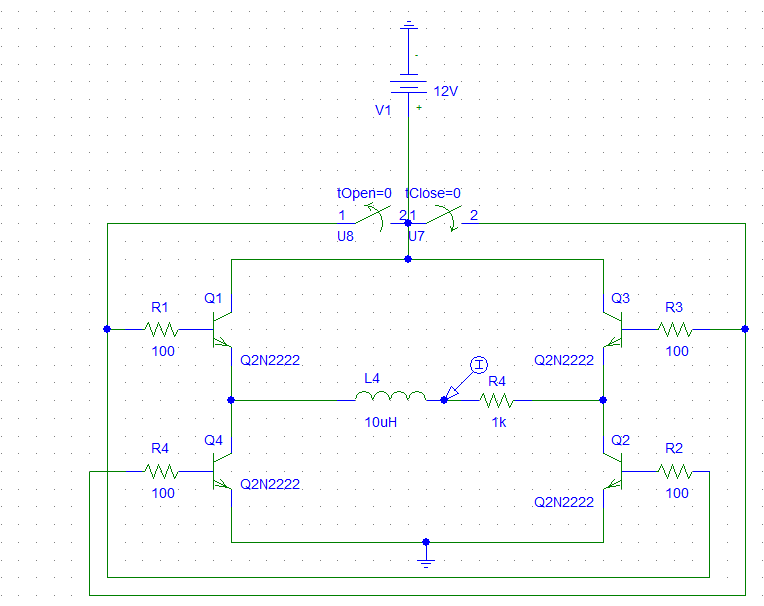
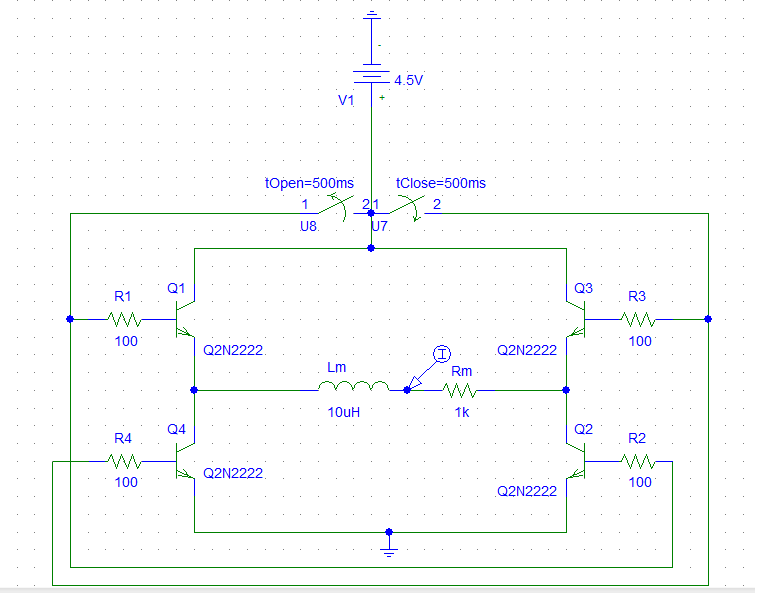
Added stuff

diff --git a/Simulation.tex b/Simulation.tex
@@ -9,5 +9,14 @@
 % \end{subfigure}\hfill
 \end{figure}
 
-    The circuit design was simulated using PSpice
-    \todo{Talk about how the simulation was made and what's the results}
+    The circuit design was simulated using PSpice software distributed by OrCAD. The circuit shown in Figure~\ref{fig:schem} was reproduced in PSpice (see Figure \ref{fig:schem_pspice}). The software does not support the transistor model used in the actual implementation \todo{add transistor model} instead the Q2N2222 was used to replace it given they are very similar, only the maximum supported values for voltages change. The value of all transistors base resistances was set to $100\:\Omega$. The DC motor simplified equivalent circuit is an inductor and a resistor \todo{ref chapman}. The U8 and U7 times were set to 500 ms.
+
+	Finally a transient analysis over the circuit was made and the current flowing through the motor is plotted in Figure~\ref{fig:plot_ponteh}.
+	
+	\todo{finish him}
+	
+\begin{figure}
+\centering
+\includegraphics[height=.5\textwidth]{img/plot.png}
+\caption{Current x Time} \label{fig:plot_ponteh}
+\end{figure}	

diff --git a/Introduction.tex b/Introduction.tex
@@ -1,9 +1,7 @@
 \section{\textbf{Introduction}}\label{sec:1}
-	
+	DC motors are commonly used in robotics due to it's reduced size, light weight and easy velocity control \todo{add ref}, avoiding the use of rectifiers or power inverters. In order to change the orientation of a DC motor, for instance, only the direction of the applied voltage needs to change.
 
-	H bridges (see Figure~\ref{fig:bridge}) are electronic circuits used to enable a voltage to be aplied across a motor in either direction. These circuits are often used in robotics to able a motor to run forward and backward.
-    \todo{Talk more about were is used H Bridges,
-          The compontents, Some articles about?}
+	H bridges (see Figure~\ref{fig:bridge}) are simple electronic circuits used to enable a voltage to be applied across a motor in either direction. Despite it's simplicity H bridges might be used to accomplish more challenging tasks, such as stabilizing distributed energy sources \todo{add ref} and improving power quality in electric vehicles \todo{add ref}.
 
 \begin{figure*}[t]
 \centering

diff --git a/Theory.tex b/Theory.tex
@@ -1,2 +1,2 @@
 \section{\textbf{Theory}}\label{sec:2}
-    \todo{talk about the theory and the calculus. What theory? what calculus?}
+    \todo{talk about the theory and the calculus. What theory? what calculus?WHAAAT?}
